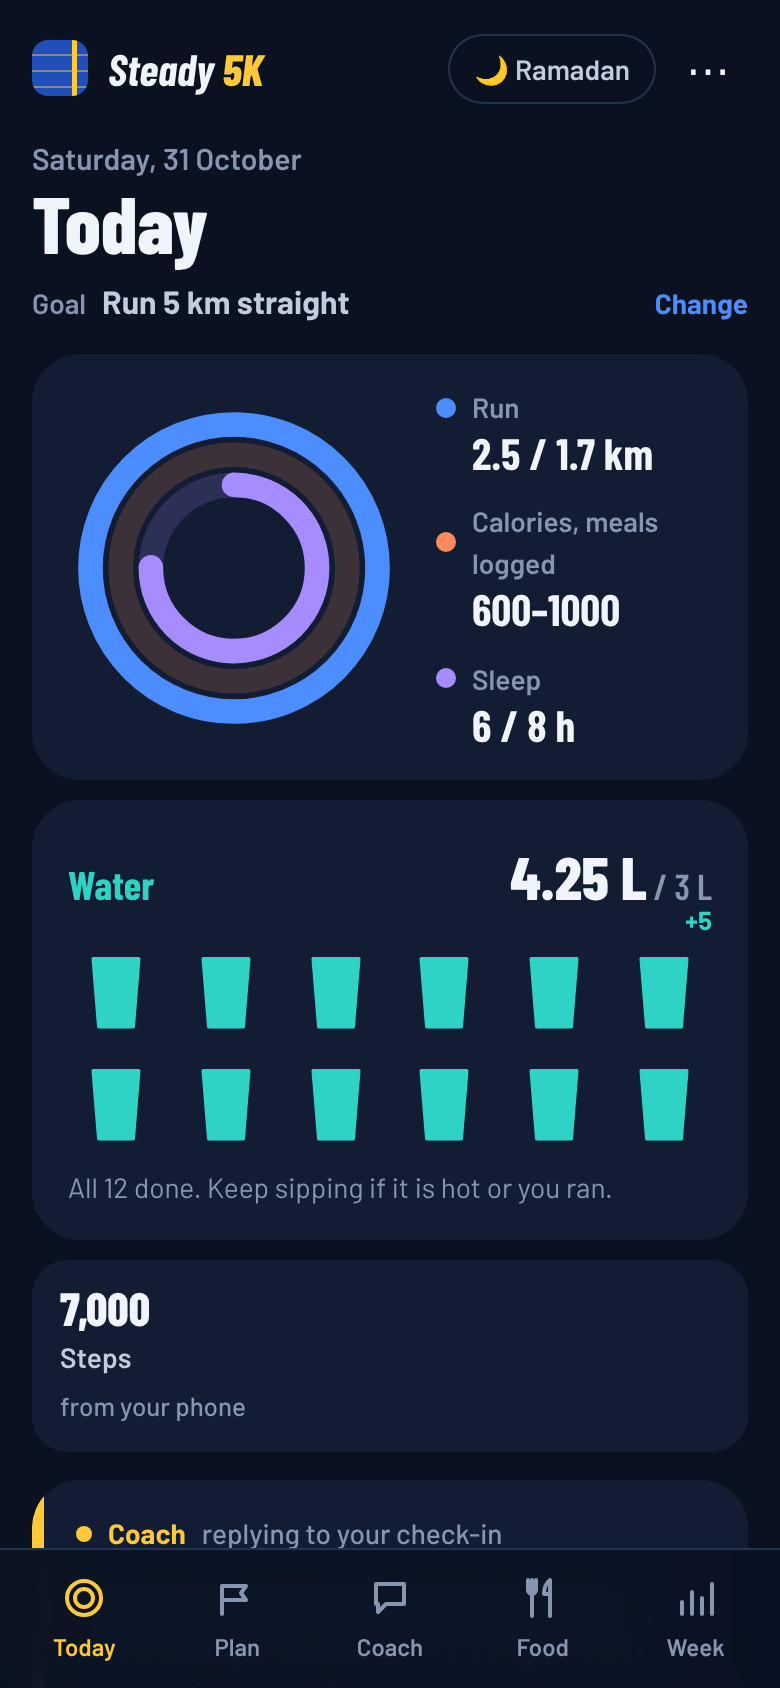
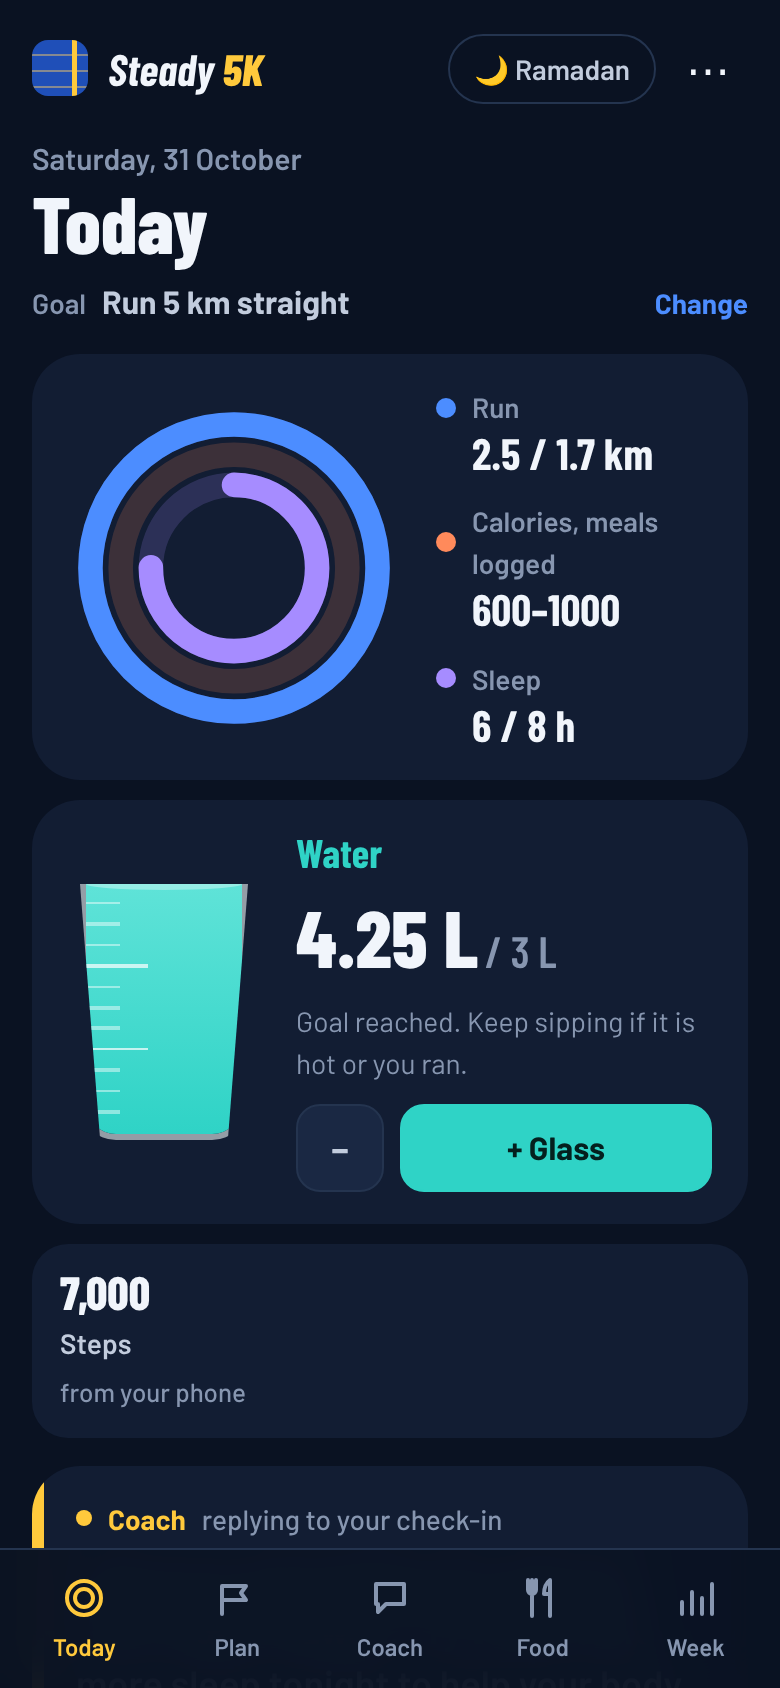
Undo: back to the single water glass (Revert "Water: 12 small tappable glasses")
Claude-Session: https://claude.ai/code/session_01KnAXkYM5bv2tZhbofiWiib

diff --git a/app.js b/app.js
@@ -425,18 +425,14 @@
         : { label: 'Calories, meals logged', color: 'var(--c-cal)', frac: slotsLogged / 4, text: T.food ? `${r50(T.kLow)}–${r50(T.kHigh)}` : 'None yet' }] : []),
       { label: 'Sleep', color: 'var(--c-sleep)', frac: (T.sleep_h || 0) / sleepGoal, text: `${T.sleep_h ?? 0} / ${sleepGoal} h` },
     ];
-    // Water: 12 small glasses of 250 ml (10 in Ramadan, between iftar and sehri). Tap an empty glass to add one, the last full one to undo.
-    const glasses = Math.round(waterGoal / 0.25), drunk = Math.max(0, T.water_l / 0.25);
-    const glassSVG = (f, i) => `<svg viewBox="0 0 24 32" aria-hidden="true"><defs><clipPath id="gc${i}"><path d="M3 2h18l-2.2 27H5.2z"/></clipPath></defs><rect x="0" y="${32 - 30 * f}" width="24" height="32" clip-path="url(#gc${i})" class="gw"/><path d="M3 2h18l-2.2 27H5.2z" class="gl"/></svg>`;
-    $('glasses').innerHTML = Array.from({ length: glasses }, (_, i) => {
-      const f = Math.max(0, Math.min(1, drunk - i));
-      const label = f >= 1 ? `Glass ${i + 1}, done${i + 1 === Math.floor(drunk) ? '. Tap to undo' : ''}` : `Glass ${i + 1}, tap to add`;
-      return `<button class="g ${f >= 1 ? 'full' : f > 0 ? 'part' : ''}" data-i="${i}" aria-label="${label}">${glassSVG(f, i)}</button>`;
-    }).join('') + (drunk > glasses ? `<span class="g-extra">+${Math.round(drunk - glasses)}</span>` : '');
+    // Water glass: fills in 250 ml glasses towards 3 L (2.5 L between iftar and sehri in Ramadan)
+    const glasses = Math.round(waterGoal / 0.25);
+    $('glassFill').style.height = Math.min(100, (T.water_l / waterGoal) * 100) + '%';
+    $('glassMarks').innerHTML = Array.from({ length: glasses - 1 }, (_, i) => `<i style="bottom:${((i + 1) / glasses) * 100}%"></i>`).join('');
     $('waterAmt').textContent = `${+T.water_l.toFixed(2)} L`;
     $('waterGoal').textContent = `/ ${waterGoal} L`;
-    $('waterHint').textContent = S.ramadan ? `Ramadan: ${glasses} glasses between iftar and sehri. Tap a glass when you drink one.`
-      : T.water_l >= waterGoal ? 'All 12 done. Keep sipping if it is hot or you ran.' : `Tap a glass when you drink one (250 ml). ${Math.ceil(glasses - drunk)} to go.`;
+    $('waterHint').textContent = S.ramadan ? 'Ramadan: drink this between iftar and sehri. One tap adds a glass (250 ml).' : T.water_l >= waterGoal ? 'Goal reached. Keep sipping if it is hot or you ran.' : `One tap adds a glass (250 ml). ${Math.ceil((waterGoal - T.water_l) / 0.25)} glasses to go.`;
+    $('waterMinus').disabled = T.water_l <= 0;
     $('rings').innerHTML = ringsSVG(parts);
     $('legend').innerHTML = parts.map((p) => `<li><i style="background:${p.color}"></i><span>${p.label}</span><b>${p.text}</b></li>`).join('');
     const mini = (label, val, sub) => `<div class="mini"><b>${val}</b><span>${label}${sub ? `<br><small>${sub}</small>` : ''}</span></div>`;
@@ -705,12 +701,8 @@
   });
   $('addGoal').addEventListener('click', openSetup);
   $('mealAdd').addEventListener('click', addMeal);
-  $('glasses').addEventListener('click', (e) => {
-    const b = e.target.closest('.g'); if (!b) return;
-    const drunk = dayTotals(dayKey()).water_l / 0.25, i = +b.dataset.i;
-    if (i < Math.floor(drunk)) { if (i === Math.floor(drunk) - 1) addWater(-0.25); else toast('Tap the last full glass to undo.'); }
-    else addWater(0.25);
-  });
+  $('waterPlus').addEventListener('click', () => addWater(0.25));
+  $('waterMinus').addEventListener('click', () => addWater(-0.25));
   $('calGoalSave').addEventListener('click', saveCalGoal);
   $('calGoalClear').addEventListener('click', () => { delete S.calGoal; S.ideas = null; save(); $('calGoalMsg').textContent = 'Goal removed. Still keeping track.'; renderToday(); });
   $('ideasGo').addEventListener('click', suggestMeals);

diff --git a/style.css b/style.css
@@ -267,23 +267,23 @@ h1 { font-size: 46px; font-weight: 800; font-style: italic; margin: 14px 0 12px;
 .rm { border: 0; background: transparent; color: var(--muted); font-size: 22px; line-height: 1; width: 32px; height: 32px; border-radius: 8px; flex: none; }
 .rm:hover { color: var(--flag); background: var(--flag-bg); }
 
-/* ---------- Water: 12 small glasses ---------- */
-.water-card { background: var(--surface); border-radius: var(--r-lg); padding: 16px 18px; margin: 10px 0 0; }
-.water-top { display: flex; justify-content: space-between; align-items: baseline; }
-.water-top .sec-title { color: var(--c-water); margin: 0; }
+/* ---------- Water glass ---------- */
+.water-card { display: grid; grid-template-columns: 96px 1fr; gap: 18px; align-items: center; background: var(--surface); border-radius: var(--r-lg); padding: 16px 18px; margin: 10px 0 0; }
+.glass { position: relative; width: 84px; height: 128px; margin: 0 auto; border: 3px solid rgba(255,255,255,.55); border-top: 0; border-radius: 0 0 18px 18px; clip-path: polygon(0 0, 100% 0, 88% 100%, 12% 100%); background: rgba(47,211,198,.06); overflow: hidden; }
+.glass-fill { position: absolute; left: 0; right: 0; bottom: 0; height: 0; background: linear-gradient(180deg, #5FE3D8, var(--c-water)); transition: height .6s cubic-bezier(.2,.8,.2,1); }
+.glass-fill::before { content: ""; position: absolute; left: 0; right: 0; top: -3px; height: 6px; background: rgba(255,255,255,.35); border-radius: 50%; }
+.glass-marks i { position: absolute; left: 0; width: 22%; height: 1.5px; background: rgba(255,255,255,.45); }
+.glass-marks i:nth-child(4n) { width: 40%; background: rgba(255,255,255,.7); }
+.water-info .sec-title { color: var(--c-water); margin-bottom: 2px; }
 .water-amt { margin: 0; }
-.water-amt b { font-family: var(--display); font-size: 30px; font-weight: 800; }
-.water-amt span { font-family: var(--display); font-size: 18px; color: var(--muted); font-weight: 600; }
-.glasses { display: grid; grid-template-columns: repeat(6, 1fr); gap: 8px 6px; margin: 12px 0 6px; position: relative; }
-.g { border: 0; background: transparent; padding: 4px 0; display: grid; place-items: center; border-radius: 10px; }
-.g svg { width: 30px; height: 40px; overflow: visible; }
-.g .gl { fill: none; stroke: rgba(255,255,255,.35); stroke-width: 1.6; stroke-linejoin: round; }
-.g .gw { fill: var(--c-water); transition: y .4s cubic-bezier(.2,.8,.2,1); }
-.g.full .gl, .g.part .gl { stroke: var(--c-water); }
-.g:hover .gl { stroke: var(--ink-2); }
-.g-extra { position: absolute; right: 0; top: -22px; font-size: 13px; font-weight: 700; color: var(--c-water); }
-.water-card .small { margin: 4px 0 0; }
-@media (prefers-reduced-motion: reduce) { .g .gw { transition: none; } }
+.water-amt b { font-family: var(--display); font-size: 40px; font-weight: 800; }
+.water-amt span { font-family: var(--display); font-size: 22px; color: var(--muted); font-weight: 600; }
+.water-info .small { margin: 2px 0 10px; }
+.water-btns { display: flex; gap: 8px; }
+.wbtn { border: 1.5px solid var(--line); background: var(--surface-2); border-radius: 12px; height: 44px; min-width: 44px; padding: 0 14px; font-size: 18px; font-weight: 700; color: var(--ink-2); }
+.wbtn.plus { background: var(--c-water); border-color: var(--c-water); color: #04201E; font-size: 16px; flex: 1; }
+.wbtn:disabled { opacity: .4; }
+@media (prefers-reduced-motion: reduce) { .glass-fill { transition: none; } }
 
 /* ---------- Calorie goal and meal ideas ---------- */
 .goal-input { display: flex; align-items: center; gap: 8px; flex-wrap: wrap; margin-top: 6px; }

diff --git a/index.html b/index.html
@@ -98,12 +98,16 @@
           <ul class="legend" id="legend"></ul>
         </section>
         <section class="water-card" aria-label="Water today">
-          <div class="water-top">
+          <div class="glass" id="glass" aria-hidden="true"><div class="glass-fill" id="glassFill"></div><div class="glass-marks" id="glassMarks"></div></div>
+          <div class="water-info">
             <h3 class="sec-title">Water</h3>
             <p class="water-amt"><b id="waterAmt">0</b> <span id="waterGoal">/ 3 L</span></p>
+            <p class="small" id="waterHint">One tap adds a glass (250 ml).</p>
+            <div class="water-btns">
+              <button id="waterMinus" class="wbtn" aria-label="Remove a glass">−</button>
+              <button id="waterPlus" class="wbtn plus">+ Glass</button>
+            </div>
           </div>
-          <div class="glasses" id="glasses" role="group" aria-label="Glasses of water, 250 ml each"></div>
-          <p class="small" id="waterHint">Tap a glass when you drink one (250 ml).</p>
         </section>
         <div class="mini-stats" id="miniStats"></div>
 

diff --git a/REPORT.md b/REPORT.md
@@ -135,7 +135,7 @@ Every screen shows a "not medical advice" notice, and only made-up data is used.
 | N06 | Strava import | Later | He already records runs in Strava; importing them would save him retyping distance and time. |
 | N07 | Full session guide | Build now | Every run comes with a step-by-step warm-up, the main run with a pace cue ("you can speak in short sentences"), a cool-down with stretches, and tips (Ramadan timing, when to stop). Rizwan is two months into running and struggles with stamina and back pain; a bare "run 3 min, walk 1.5 min" assumes he knows how to warm up. It is folded away so the daily screen stays short (H4). |
 | N08 | Calorie tracker (Food tab) | Build now (after the user test) | Rizwan asked to "monitor my calorie intake" (Q5). He adds food by typing or voice, grouped by meal; the AI estimates each item as a range; check-in meals appear too; a 7-day chart shows patterns. Shown only if he has the calorie goal. |
-| N09 | Water glasses | Build now | Thirst is his hardest problem when fasting. Today shows 12 small glasses of 250 ml (3 L; 10 between iftar and sehri in Ramadan); one tap fills a glass. |
+| N09 | Water glass | Build now | Thirst is his hardest problem when fasting. A glass on Today fills in 250 ml steps towards 3 L (2.5 L between iftar and sehri); one tap adds a glass. |
 
 That is 9 of 18 class features built in some form, most of them reshaped, plus 8 new ones. Choosing one customer removed the reason for most of the rest.
 
